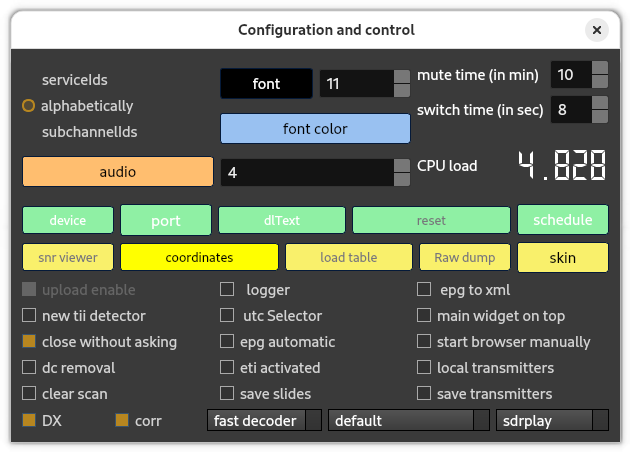
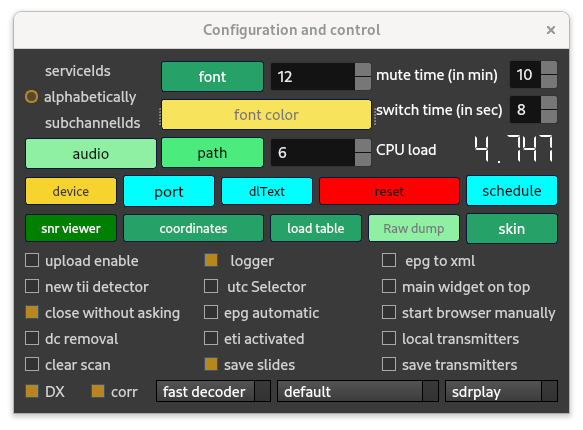
picture change

diff --git a/qt-dab-RC/support/config-handler.cpp b/qt-dab-RC/support/config-handler.cpp
@@ -50,6 +50,8 @@
 #define SKIN_BUTTON             QString ("skinButton")
 #define DUMP_BUTTON             QString ("dumpButton")
 
+#define	PATH_BUTTON		QString ("pathButton")
+
 static struct {
 	QString	decoderName;
 	int	decoderKey;
@@ -159,6 +161,8 @@ static struct {
 	this -> tiiThreshold_setter -> setValue (v);
 	connect (tiiThreshold_setter, qOverload<int>(&QSpinBox::valueChanged),
 	         this, &configHandler::handle_tiiThreshold);
+	connect (pathButton, &QPushButton::clicked,
+	         this, &configHandler::handle_pathButton);
 	set_Colors ();
 }
 
@@ -263,6 +267,8 @@ void	configHandler::set_connections () {
 	         this, &configHandler::color_loadTableButton);
 	connect (dumpButton, &smallPushButton::rightClicked,
 	         this, &configHandler::color_sourcedumpButton);
+	connect (pathButton, &smallPushButton::rightClicked,
+	         this, &configHandler::color_pathButton);
 	connect (skinButton, &smallPushButton::rightClicked,
 	         this, &configHandler::color_skinButton);
 //
@@ -466,6 +472,12 @@ QString dumpButton_font =
 	   dabSettings -> value (DUMP_BUTTON + "_font",
 	                                              "black"). toString ();
 
+QString pathButton_color =
+	   dabSettings -> value (PATH_BUTTON + "_color",
+	                                              "white"). toString ();
+QString pathButton_font =
+	   dabSettings -> value (PATH_BUTTON + "_font",
+	                                              "black"). toString ();
 
 QString skinButton_font	=
 	   dabSettings -> value (SKIN_BUTTON + "_font",
@@ -523,6 +535,10 @@ QString	skinButton_color =
 	this -> dumpButton ->
 	              setStyleSheet (temp. arg (dumpButton_color,
 	                                        dumpButton_font));
+	this	-> pathButton ->
+	              setStyleSheet (temp. arg (pathButton_color,
+	                                        pathButton_font));
+	
 	this -> skinButton ->
 	              setStyleSheet (temp. arg (skinButton_color,
 	                                        skinButton_font));
@@ -575,6 +591,10 @@ void	configHandler::color_loadTableButton	() 	{
 
 void	configHandler::color_sourcedumpButton	()	{
 	set_buttonColors (this ->  dumpButton, DUMP_BUTTON);
+}
+
+void	configHandler::color_pathButton		()	{
+	set_buttonColors (this ->  pathButton, PATH_BUTTON);
 }
 
 void	configHandler::color_skinButton	() 	{
@@ -884,5 +904,16 @@ bool	configHandler::get_dxSelector () {
 
 void	configHandler::handle_tiiThreshold	(int t) {
 	dabSettings -> setValue ("tiiThreshold", t);
+}
+
+void	configHandler::handle_pathButton	() {
+QString dir	=
+	  QFileDialog::getExistingDirectory (nullptr,
+	                                     tr("Open Directory"),
+	                                     QDir::homePath (),
+                                             QFileDialog::ShowDirsOnly
+                                             | QFileDialog::DontResolveSymlinks);
+	if (dir != "")
+	   dabSettings	-> setValue ("filePath", dir);
 }
 

diff --git a/qt-devices/sdrplay-handler-v3/Rsp-device.cpp b/qt-devices/sdrplay-handler-v3/Rsp-device.cpp
@@ -105,17 +105,27 @@ sdrplay_api_ErrT        err;
 
 	Rsp_device::~Rsp_device	() {}
 
+//
+//	lna states are model dependent
 int	Rsp_device::lnaStates	(int frequency) {
 	(void)frequency;
 	return 0;
 }
 
+//	restart is model deependent
 bool	Rsp_device::restart	(int freq) {
 	(void)freq;
 	return false;
 }
+
+//	setting an lna state is model deoendent
+bool	Rsp_device::set_lna	(int lnaState) {
+	(void)lnaState;
+	return false;
+}
 //
-//	handling agc is common to all models
+//
+//	setting agc is common to all models
 bool	Rsp_device::set_agc	(int setPoint, bool on) {
 sdrplay_api_ErrT err;
 
@@ -131,15 +141,9 @@ sdrplay_api_ErrT err;
 	                                    sdrplay_api_Update_Ctrl_Agc,
 	                                    sdrplay_api_Update_Ext1_None);
 	return err == sdrplay_api_Success;
-	return false;
 }
 
-bool	Rsp_device::set_lna	(int lnaState) {
-	(void)lnaState;
-	return false;
-}
-//
-//	handling GRdB is common to all models
+//	setting  GRdB is common to all models
 bool	Rsp_device::set_GRdB	(int GRdBValue) {
 sdrplay_api_ErrT err;
 
@@ -155,7 +159,7 @@ sdrplay_api_ErrT err;
 	return false;
 }
 //
-//	handling ppm is common to all models
+//	setting ppm is common to all models
 bool	Rsp_device::set_ppm	(double ppmValue) {
 sdrplay_api_ErrT err;
 
@@ -167,21 +171,25 @@ sdrplay_api_ErrT err;
 	return err == sdrplay_api_Success;
 }
 
+//	setting an antenna select is model dependent
 bool	Rsp_device::set_antenna	(int antenna) {
 	(void)antenna;
 	return false;
 }
 
+//	setting amPort is model dependent
 bool	Rsp_device::set_amPort 	(int amPort) {
 	(void)amPort;
 	return false;
 }
 
+//	setting the bias is model dependent (RspI does not have it)
 bool	Rsp_device::set_biasT (bool  b) {
 	(void)b;
 	return false;
 }
 
+//	setting the notch filter is model dependent
 bool	Rsp_device::set_notch (bool b) {
 	(void)b;
 	return false;

diff --git a/includes/ofdm/fic-handler.h b/includes/ofdm/fic-handler.h
@@ -44,7 +44,7 @@ class ficHandler: public fibDecoder {
 Q_OBJECT
 public:
 		ficHandler		(RadioInterface *, uint8_t);
-		~ficHandler();
+		~ficHandler		();
 	void	process_ficBlock	(std::vector<int16_t> &, int16_t);
 	void	stop			();
 	void	restart			();
@@ -59,6 +59,8 @@ private:
 	bool		punctureTable	[3072 + 24];
 	uint8_t		fibBits		[4 * 768];
 	bool		ficValid	[4];
+	uint8_t		ficBuffer	[256];
+	uint8_t		PRBS		[768];
 	void		process_ficInput	(int16_t, bool *);
 	int16_t		index;
 	int16_t		BitsperBlock;
@@ -67,13 +69,10 @@ private:
 	int16_t		ficMissed;
 	int16_t		ficRatio;
 	uint16_t	convState;
-	uint8_t		PRBS		[768];
 	FILE		*ficDumpPointer;
 	QMutex          ficLocker;
-	uint8_t		ficBuffer [256];
 	int		ficPointer;
 	std::atomic<bool> running;
-//	uint8_t		shiftRegister	[9];
 signals:
 	void		show_ficSuccess	(bool);
 };

diff --git a/includes/support/ringbuffer.h b/includes/support/ringbuffer.h
@@ -237,6 +237,20 @@ uint32_t   available = GetRingBufferWriteAvailable();
 	return elementCount;
 }
 
+int32_t advanceWriteIndex(int32_t elementCount) {
+	PaUtil_WriteMemoryBarrier();
+	return writeIndex = (writeIndex + elementCount) & bigMask;
+  }
+
+/* ensure that previous reads (copies out of the ring buffer) are
+ * always completed before updating (writing) the read index.
+ * (write-after-read) => full barrier
+ */
+int32_t	advanceReadIndex(int32_t elementCount) {
+	PaUtil_FullMemoryBarrier();
+	return readIndex = (readIndex + elementCount) & bigMask;
+}
+
 int32_t	putDataIntoBuffer (const void *data, int32_t elementCount) {
 int32_t size1, size2, numWritten;
 void	*data1;

diff --git a/qt-dab-RC/support/aboutdialog.cpp b/qt-dab-RC/support/aboutdialog.cpp
@@ -38,7 +38,7 @@
 	ui -> author 		-> setText(tr("Developed by")+" Jan van Katwijk (<a href=\"mailto:J.vanKatwijk@gmail.com\">J.vanKatwijk@gmail.com</a>)");
 	ui -> author		-> setTextInteractionFlags (Qt::TextBrowserInteraction);
 	ui -> version		-> setText (QString("Version-6.%1").arg ("X"));
-	QString theDate		= QDateTime::currentDateTime (). toString ();
+	QString theDate		= QString (__TIMESTAMP__);
 	ui -> buildInfo ->	setText (QString ("Built on") + theDate + QString (", Commit ") + QString (GITHASH));
 	ui -> sourceLocation	-> setText ("Sources are at <a href=\"https://github.com/JvanKatwijk/qt-dab\">github> </a>");
 	ui -> sourceLocation	-> setOpenExternalLinks(true);

diff --git a/src/support/findfilenames.cpp b/src/support/findfilenames.cpp
@@ -281,16 +281,12 @@ uint8_t t	= 0;
 }
 
 QString	findfileNames::basicPath	() {
-#ifndef __MINGW32__
-        QString tempPath	= QDir::homePath ();
-#else
-        QString tempPath	= QDir::homePath ();
-#endif
+
+        QString tempPath	= QDir::homePath () + "/Qt-DAB-files/";
 	tempPath		=
-	                    dabSettings -> value ("tempPath", tempPath). toString ();
+	                    dabSettings -> value ("filePath", tempPath). toString ();
 	if (!tempPath. endsWith ('/'))
 	   tempPath		+= '/';
-        tempPath        +=  "Qt-DAB-files/";
 	tempPath	= checkDir (tempPath);
 
 	return QDir::fromNativeSeparators (tempPath);

diff --git a/qt-devices/uhd/uhd-handler.h b/qt-devices/uhd/uhd-handler.h
@@ -39,9 +39,9 @@ public:
 	void	stop		();
 
 private:
-	uhdHandler *m_theStick;
+	uhdHandler *theStick;
 	void	run		();
-	std::atomic<bool> m_stop_signal_called;
+	std::atomic<bool> stop_called;
 };
 
 class uhdHandler : public deviceHandler, public Ui_uhdWidget {
@@ -62,7 +62,7 @@ public:
 private:
 	QSettings *uhdSettings;
 	uhd::usrp::multi_usrp::sptr m_usrp;
-	uhd::rx_streamer::sptr m_rx_stream;
+	uhd::rx_streamer::sptr rx_stream;
 	uhd_streamer * m_workerHandle = nullptr;
 	RingBuffer<std::complex<float>> * theBuffer;
 	int32_t	inputRate;

diff --git a/qt-devices/uhd/uhd-handler.cpp b/qt-devices/uhd/uhd-handler.cpp
@@ -79,7 +79,7 @@ void	uhd_streamer::run () {
 	   uhd::rx_metadata_t md;
 	   size_t num_rx_samps =
                  m_theStick -> m_rx_stream -> recv (data1, size1, md, 1.0);
-	   m_theStick -> theBuffer -> AdvanceRingBufferWriteIndex (num_rx_samps);
+	   m_theStick -> theBuffer -> AdvanceWriteIndex (num_rx_samps);
 
 	   if (md.error_code == uhd::rx_metadata_t::ERROR_CODE_TIMEOUT) {
 	      std::cout << boost::format("Timeout while streaming") << std::endl;

diff --git a/qt-dab-RC/support/config-handler.h b/qt-dab-RC/support/config-handler.h
@@ -114,6 +114,7 @@ private slots:
 	void	color_loadTableButton	();
 	void	color_sourcedumpButton	();
 	void	color_skinButton	();
+	void	color_pathButton	();
 //
 //	and the handlers:
 	void	handle_audioSelectButton	();
@@ -137,6 +138,7 @@ private slots:
 	void	handle_decoderSelector		(const QString &s);
 	void	handle_saveTransmittersSelector	(int);
 	void	handle_tiiThreshold		(int);
+	void	handle_pathButton		();
 
 signals:
 	void	selectDecoder		(int);

diff --git a/README.md b/README.md
@@ -22,17 +22,6 @@ versions are available.
 For Windows  three installers are maintained, and a Linux x64 AppImage
 is available.
 
-Note
-==================================================================
-
-While not yet in the pictures, the main widget is equipped with a
-"folder" icon, an icon located on the top left of the right half of the widget.
-Touching it shows the folder/directory where the pictures are stored and
-where the tii table and the log file are placed.
-The default location is the dolder/directory QT-DAB-files in the user's
-home directory/folder
-
-=========================================================================
 
 ![6.5](/Qt_DAB-6.X-1.png?raw=true)
 ![6.5](/Qt_DAB-6.X-2.png?raw=true)
@@ -44,7 +33,7 @@ Table of Contents
 * [Introduction](#introduction)
 * [Features](#features)
 * [Widgets and scopes](#widgets-and-scopes-for-qt-dab)
-* [A note on using an RTLSDR device](#note-on-rtlsdr-device]
+* [A Note on using an RTLSDR device](#note-on-rtlsdr-device]
 * [Scan control](#scan-control)
 * [Displaying TII data](#displaying-TII-data)
 * [Documentation](#documentation)
@@ -138,6 +127,7 @@ On the right half of the widget is shows the dynamic label, and the slides - if 
 of the bold text NPO Klassiek), will show (or hide) the *technical widget*,
 a widget showing all technical details as well as strength indicators and 
 a spectrum of the audio of the selected service;
+ * touching the small icon on top of the latter, the folder/directory in which the slides, the tii log and the log file are written is shown;
  * touching the icon showing a *speaker* controls muting the signal,
 if no audio is generated, or if the signal is muted, the icon will show this;
  * touching the *copyright symbol* shows (or, if visible, hides) a small widget with some acknowledgements for using external libraries;
@@ -249,7 +239,7 @@ At starting up Qt-DAB-6.X for the (very) first time, no device is selected yet, 
 
 For a detailed description of all selectors, see the manual.
 
-A Bote on using an RTLSDR device
+A Note on using an RTLSDR device
 ======================================================================
 
 RTLSDR devices are - because of their price - rather popular.
